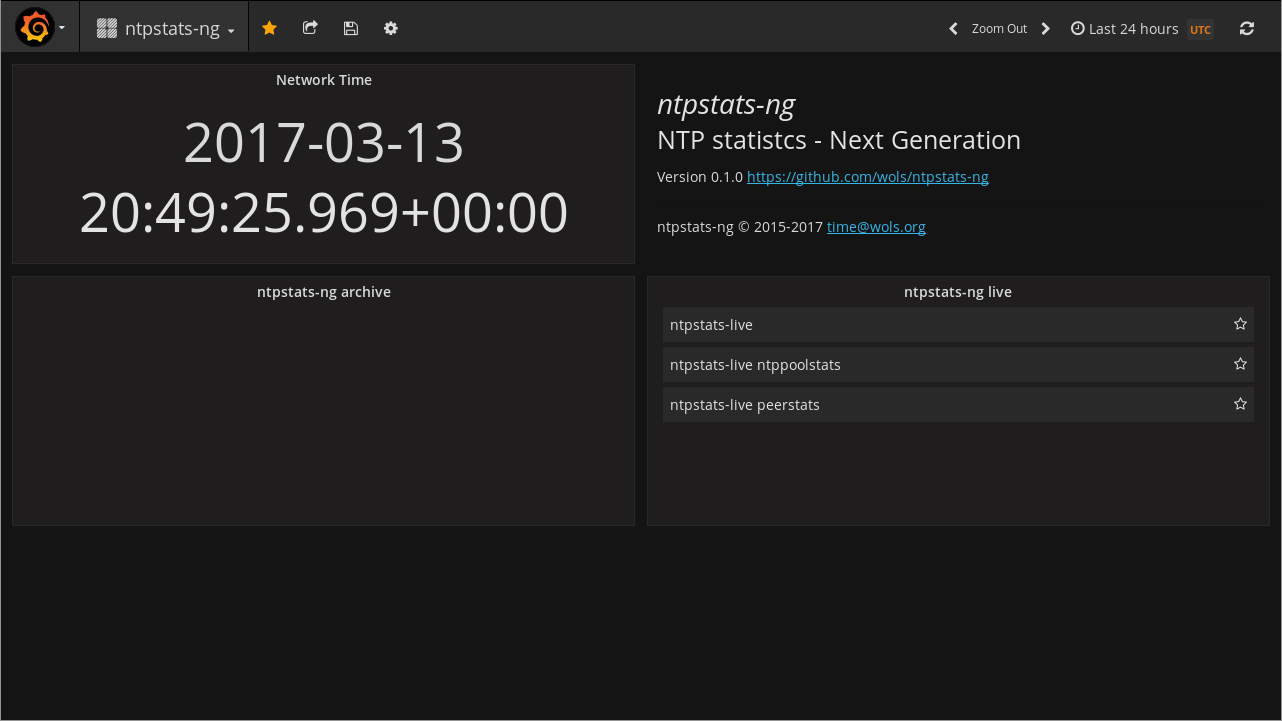
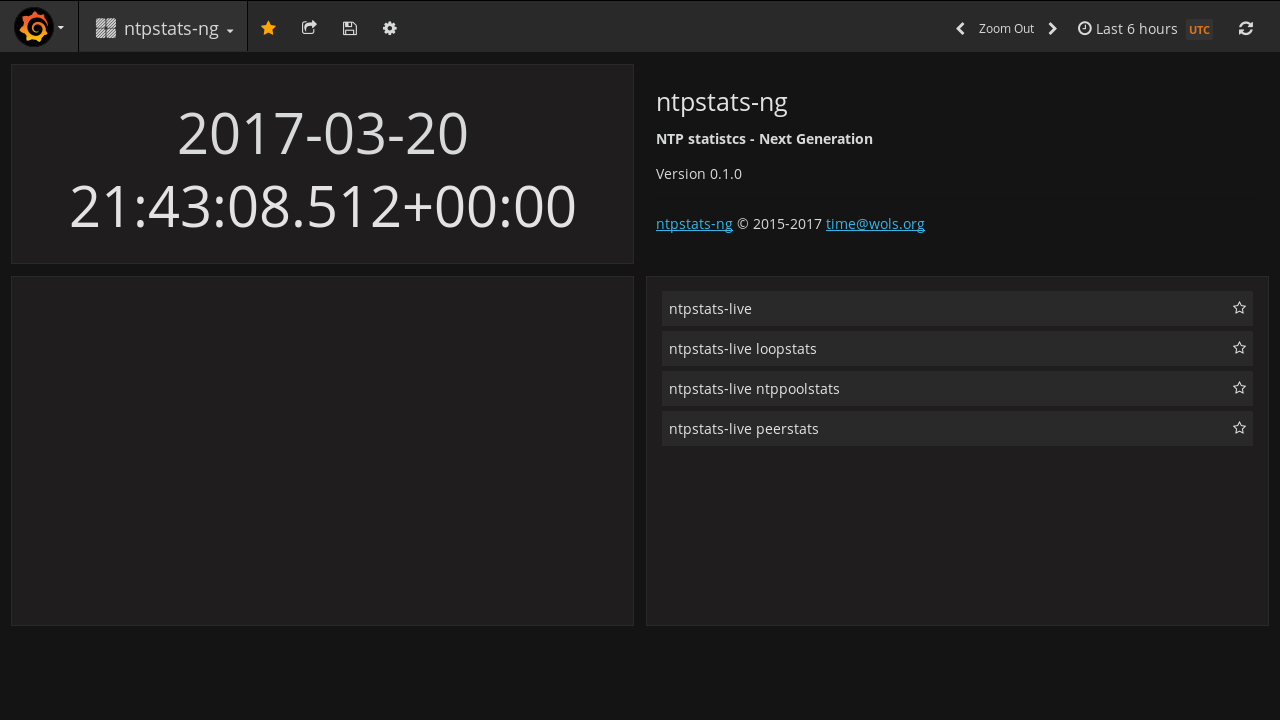
gh-pages: add Grafana screenshots

diff --git a/index.html b/index.html
@@ -49,7 +49,7 @@ body {
               <!-- wrapper for slides -->
               <div class="carousel-inner">
                 <div class="item active">
-                  <img src="http://placehold.it/1282x721" alt="...">
+                  <img src="http://placehold.it/1280x720" alt="...">
                   <div class="carousel-caption">
                     <h3>ntpstats-ng GitBook</h3>
                   </div>
@@ -64,7 +64,7 @@ body {
                 </div>
                 <div class="item">
                   <a href="#feature_2">
-                    <img src="http://placehold.it/1282x721" alt="...">
+                    <img src="http://placehold.it/1280x720" alt="...">
                     <div class="carousel-caption">
                       <h3>Feature 2</h3>
                     </div>
@@ -72,7 +72,7 @@ body {
                 </div>
                 <div class="item">
                   <a href="#feature_3">
-                    <img src="http://placehold.it/1282x721" alt="...">
+                    <img src="http://placehold.it/1280x720" alt="...">
                     <div class="carousel-caption">
                       <h3>Feature 3</h3>
                     </div>
@@ -80,7 +80,7 @@ body {
                 </div>
                 <div class="item">
                   <a href="#feature_4">
-                    <img src="http://placehold.it/1282x721" alt="...">
+                    <img src="http://placehold.it/1280x720" alt="...">
                     <div class="carousel-caption">
                       <h3>Feature 4</h3>
                     </div>
@@ -105,16 +105,11 @@ body {
     <div class="container">
       <div class="row">
         <div class="col-md-3">
-          <h2>ntplog</h2>
+          <h2>ntppoolstats</h2>
           <p><img src="http://placehold.it/253x158" alt="placeholder" class="img-thumbnail"></p>
           <p>Short description...</p>
-          <p><a href="#ntplog" class="btn btn-default" role="button">Type ntplog &raquo;</a></p>
-        </div>
-        <div class="col-md-3">
-          <h2>loopstats</h2>
-          <p><img src="http://placehold.it/253x158" alt="placeholder" class="img-thumbnail"></p>
-          <p>Short description...</p>
-          <p><a href="#loopstats" class="btn btn-default" role="button">Type loopstats &raquo;</a></p>
+          <p><a href="#ntppoolstats" class="btn btn-default" role="button">Type ntppoolstats &raquo;</a></p>
+          <p class="text-right"><a class="back-to-top glyphicon glyphicon-arrow-up" href="#top" title="Top"></a></p>
         </div>
         <div class="col-md-3">
           <h2>peerstats</h2>
@@ -123,13 +118,19 @@ body {
           <p><a href="#peerstats" class="btn btn-default" role="button">Type peerstats &raquo;</a></p>
         </div>
         <div class="col-md-3">
-          <h2>ntppoolstats</h2>
+          <h2>loopstats</h2>
           <p><img src="http://placehold.it/253x158" alt="placeholder" class="img-thumbnail"></p>
           <p>Short description...</p>
-          <p><a href="#ntppoolstats" class="btn btn-default" role="button">Type ntppoolstats &raquo;</a></p>
-          <p class="text-right"><a class="back-to-top glyphicon glyphicon-arrow-up" href="#top" title="Top"></a></p>
+          <p><a href="#loopstats" class="btn btn-default" role="button">Type loopstats &raquo;</a></p>
+        </div>
+        <div class="col-md-3">
+          <h2>ntplog</h2>
+          <p><img src="http://placehold.it/253x158" alt="placeholder" class="img-thumbnail"></p>
+          <p>Short description...</p>
+          <p><a href="#ntplog" class="btn btn-default" role="button">Type ntplog &raquo;</a></p>
         </div>
       </div>
+
       <hr />
     </div>
 
@@ -150,6 +151,7 @@ body {
           <p class="text-right"><a class="back-to-top glyphicon glyphicon-arrow-up" href="#top" title="Top"></a></p>
         </div>
       </div>
+
       <hr />
     </div>
 
@@ -162,20 +164,10 @@ body {
       </div>
 
       <div class="row">
-        <div class="col-md-12" id="ntplog">
-          <h3>ntplog</h3>
-          <p><img src="http://placehold.it/1282x721" alt="placeholder" class="img-responsive"></p>
-          <p class="lead">Description...</p>
-          <p>Lorem ipsum dolor sit amet, consetetur sadipscing elitr, sed diam nonumy eirmod tempor invidunt ut labore et dolore magna aliquyam erat, sed diam voluptua. At vero eos et accusam et justo duo dolores et ea rebum. Stet clita kasd gubergren, no sea takimata sanctus est Lorem ipsum dolor sit amet.</p>
-          <p class="text-right"><a class="back-to-top glyphicon glyphicon-arrow-up" href="#top" title="Top"></a></p>
-        </div>
-      </div>
-
-      <div class="row">
-        <div class="col-md-12" id="loopstats">
-          <h3>loopstats</h3>
-          <p><img src="http://placehold.it/1282x721" alt="placeholder" class="img-responsive"></p>
-          <p class="lead">Description...</p>
+        <div class="col-md-12" id="ntppoolstats">
+          <h3>ntppoolstats</h3>
+          <p><img src="doc/images/dashboard_ntpstats-live_ntppoolstats.png" alt="ntpstats-live ntppoolstats" class="img-responsive"></p>
+          <p class="lead">ntpstats-live ntppoolstats</p>
           <p>Lorem ipsum dolor sit amet, consetetur sadipscing elitr, sed diam nonumy eirmod tempor invidunt ut labore et dolore magna aliquyam erat, sed diam voluptua. At vero eos et accusam et justo duo dolores et ea rebum. Stet clita kasd gubergren, no sea takimata sanctus est Lorem ipsum dolor sit amet.</p>
           <p class="text-right"><a class="back-to-top glyphicon glyphicon-arrow-up" href="#top" title="Top"></a></p>
         </div>
@@ -184,22 +176,33 @@ body {
       <div class="row">
         <div class="col-md-12" id="peerstats">
           <h3>peerstats</h3>
-          <p><img src="http://placehold.it/1282x721" alt="placeholder" class="img-responsive"></p>
-          <p class="lead">Description...</p>
+          <p><img src="doc/images/dashboard_ntpstats-live_peerstats.png" alt="ntpstats-live peerstats" class="img-responsive"></p>
+          <p class="lead">ntpstats-live peerstats</p>
           <p>Lorem ipsum dolor sit amet, consetetur sadipscing elitr, sed diam nonumy eirmod tempor invidunt ut labore et dolore magna aliquyam erat, sed diam voluptua. At vero eos et accusam et justo duo dolores et ea rebum. Stet clita kasd gubergren, no sea takimata sanctus est Lorem ipsum dolor sit amet.</p>
           <p class="text-right"><a class="back-to-top glyphicon glyphicon-arrow-up" href="#top" title="Top"></a></p>
        </div>
       </div>
 
       <div class="row">
-        <div class="col-md-12" id="ntppoolstats">
-          <h3>ntppoolstats</h3>
-          <p><img src="http://placehold.it/1282x721" alt="placeholder" class="img-responsive"></p>
+        <div class="col-md-12" id="loopstats">
+          <h3>loopstats</h3>
+          <p><img src="doc/images/dashboard_ntpstats-live_loopstats.png" alt="ntpstats-live loopstats" class="img-responsive"></p>
+          <p class="lead">ntpstats-live loopstats</p>
+          <p>Lorem ipsum dolor sit amet, consetetur sadipscing elitr, sed diam nonumy eirmod tempor invidunt ut labore et dolore magna aliquyam erat, sed diam voluptua. At vero eos et accusam et justo duo dolores et ea rebum. Stet clita kasd gubergren, no sea takimata sanctus est Lorem ipsum dolor sit amet.</p>
+          <p class="text-right"><a class="back-to-top glyphicon glyphicon-arrow-up" href="#top" title="Top"></a></p>
+        </div>
+      </div>
+
+      <div class="row">
+        <div class="col-md-12" id="ntplog">
+          <h3>ntplog</h3>
+          <p><img src="http://placehold.it/1280x720" alt="placeholder" class="img-responsive"></p>
           <p class="lead">Description...</p>
           <p>Lorem ipsum dolor sit amet, consetetur sadipscing elitr, sed diam nonumy eirmod tempor invidunt ut labore et dolore magna aliquyam erat, sed diam voluptua. At vero eos et accusam et justo duo dolores et ea rebum. Stet clita kasd gubergren, no sea takimata sanctus est Lorem ipsum dolor sit amet.</p>
           <p class="text-right"><a class="back-to-top glyphicon glyphicon-arrow-up" href="#top" title="Top"></a></p>
         </div>
       </div>
+
       <hr />
     </div>
 
